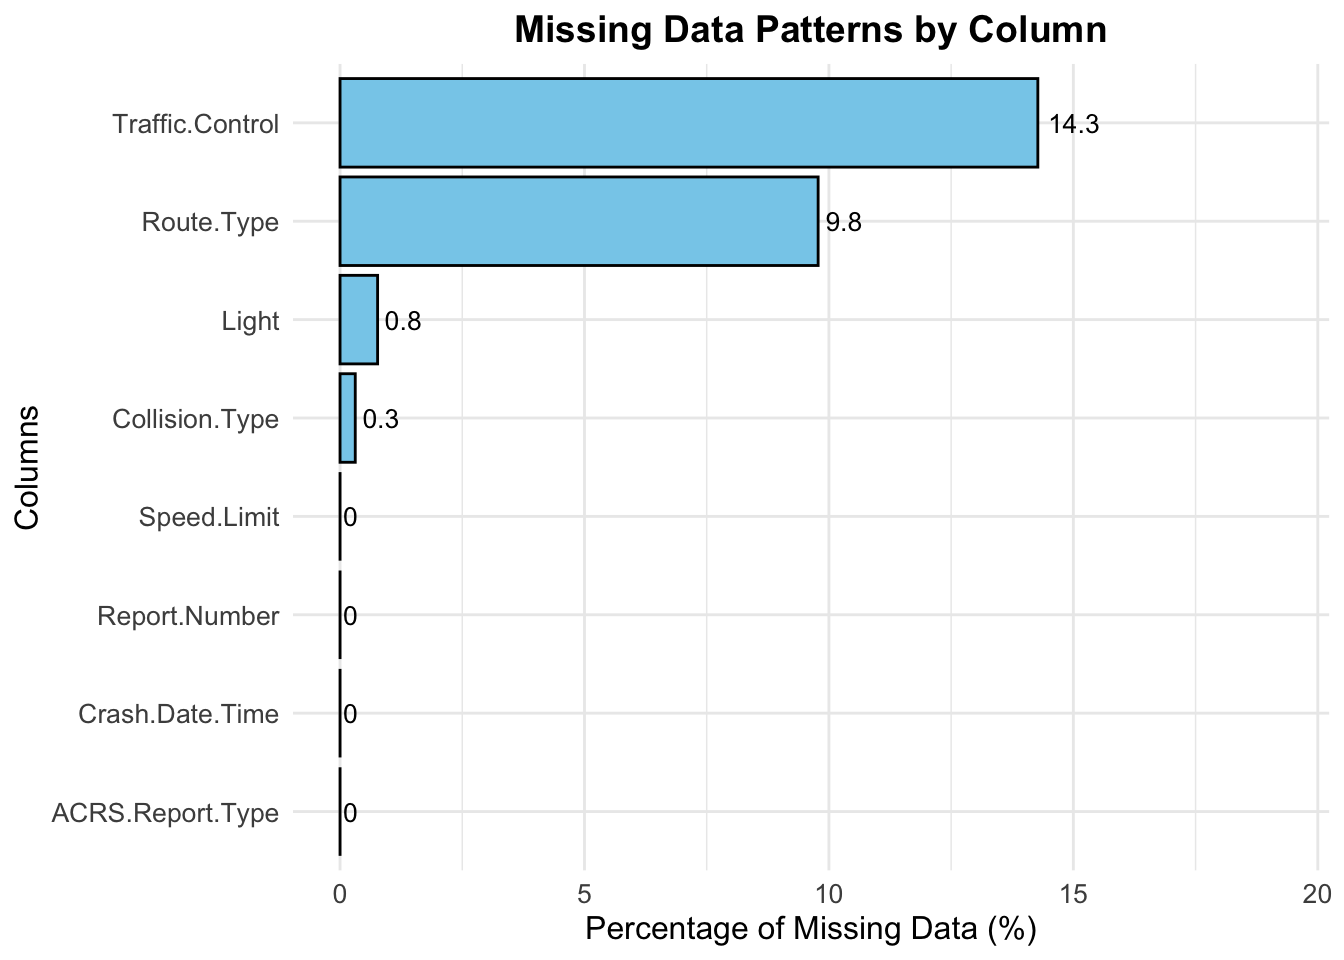
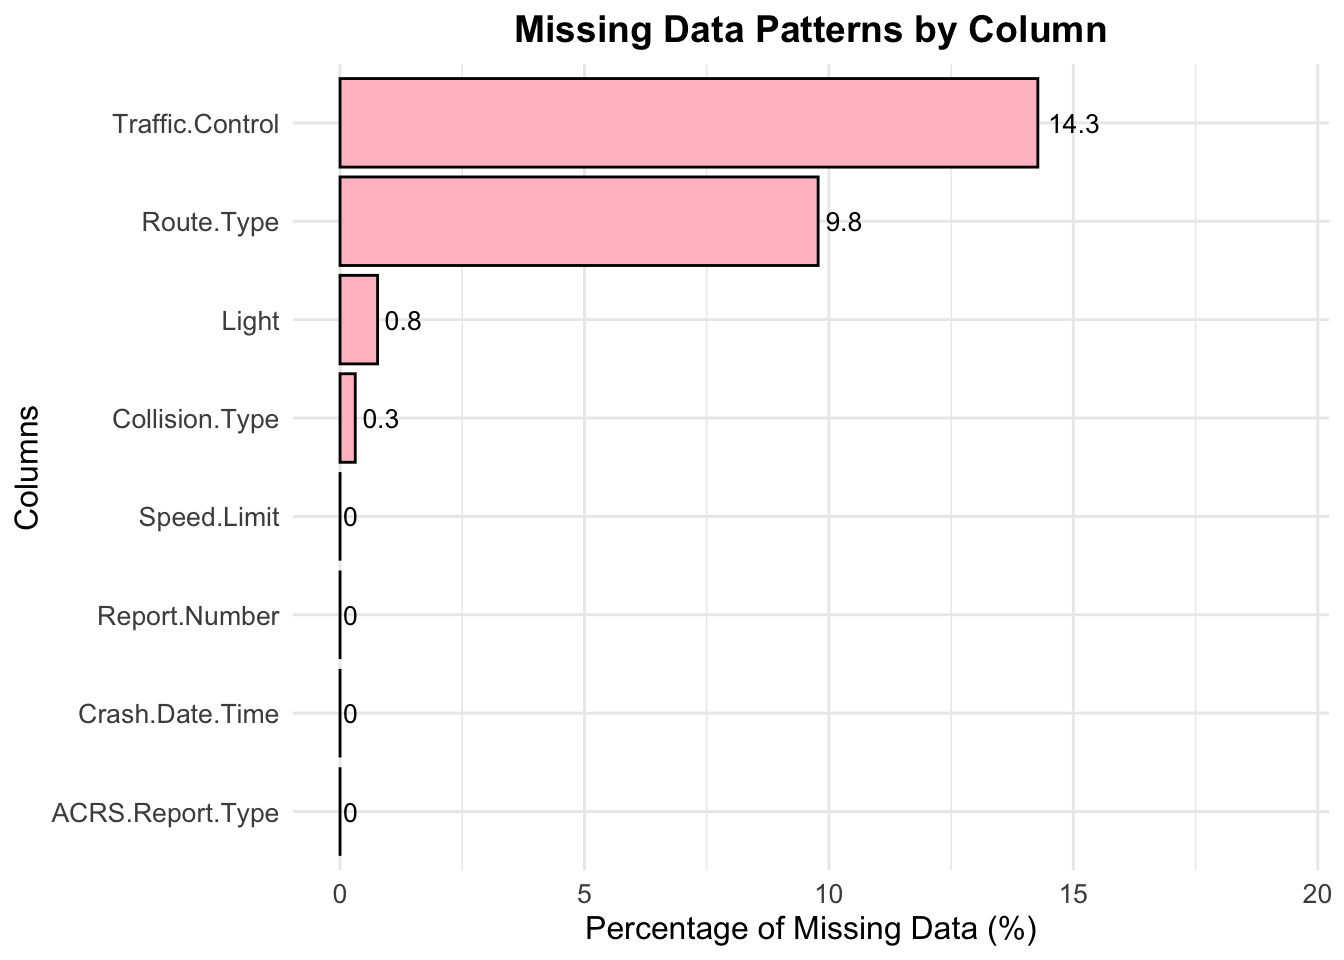
Render html

Changed region(s): [[0.25, 0.0625, 0.7812, 0.5]]

diff --git a/docs/data.html b/docs/data.html
@@ -265,7 +265,7 @@ Speed.Limit           Speed.Limit             0          0.0000000</code></pre>
 <summary>Code</summary>
 <div class="sourceCode cell-code" id="cb5"><pre class="sourceCode r code-with-copy"><code class="sourceCode r"><span id="cb5-1"><a href="#cb5-1" aria-hidden="true" tabindex="-1"></a>missing_decrease <span class="ot">&lt;-</span> missing_summary_df[<span class="fu">order</span>(missing_summary_df<span class="sc">$</span>Missing_Percentage, <span class="at">decreasing =</span> <span class="cn">TRUE</span>), ]</span>
 <span id="cb5-2"><a href="#cb5-2" aria-hidden="true" tabindex="-1"></a><span class="fu">ggplot</span>(missing_decrease, <span class="fu">aes</span>(<span class="at">x =</span> Missing_Percentage, <span class="at">y =</span> <span class="fu">reorder</span>(Column, Missing_Percentage))) <span class="sc">+</span></span>
-<span id="cb5-3"><a href="#cb5-3" aria-hidden="true" tabindex="-1"></a>  <span class="fu">geom_bar</span>(<span class="at">stat =</span> <span class="st">"identity"</span>, <span class="at">fill =</span> <span class="st">"skyblue"</span>, <span class="at">color =</span> <span class="st">"black"</span>) <span class="sc">+</span></span>
+<span id="cb5-3"><a href="#cb5-3" aria-hidden="true" tabindex="-1"></a>  <span class="fu">geom_bar</span>(<span class="at">stat =</span> <span class="st">"identity"</span>, <span class="at">fill =</span> <span class="st">"pink"</span>, <span class="at">color =</span> <span class="st">"black"</span>) <span class="sc">+</span></span>
 <span id="cb5-4"><a href="#cb5-4" aria-hidden="true" tabindex="-1"></a>  <span class="fu">labs</span>(<span class="at">title =</span> <span class="st">"Missing Data Patterns by Column"</span>,</span>
 <span id="cb5-5"><a href="#cb5-5" aria-hidden="true" tabindex="-1"></a>       <span class="at">x =</span> <span class="st">"Percentage of Missing Data (%)"</span>,</span>
 <span id="cb5-6"><a href="#cb5-6" aria-hidden="true" tabindex="-1"></a>       <span class="at">y =</span> <span class="st">"Columns"</span>) <span class="sc">+</span></span>

diff --git a/docs/index.html b/docs/index.html
@@ -9,7 +9,7 @@
 <meta name="author" content="Yiqian Liu (yl5804)">
 <meta name="author" content="Jiarui Wang (jw4595)">
 <meta name="author" content="Yufei Duan (yd2793)">
-<meta name="dcterms.date" content="2024-11-19">
+<meta name="dcterms.date" content="2024-11-20">
 
 <title>Car Crashing Report</title>
 <style>
@@ -180,7 +180,7 @@ ul.task-list li input[type="checkbox"] {
     <div>
     <div class="quarto-title-meta-heading">Published</div>
     <div class="quarto-title-meta-contents">
-      <p class="date">November 19, 2024</p>
+      <p class="date">November 20, 2024</p>
     </div>
   </div>
   
